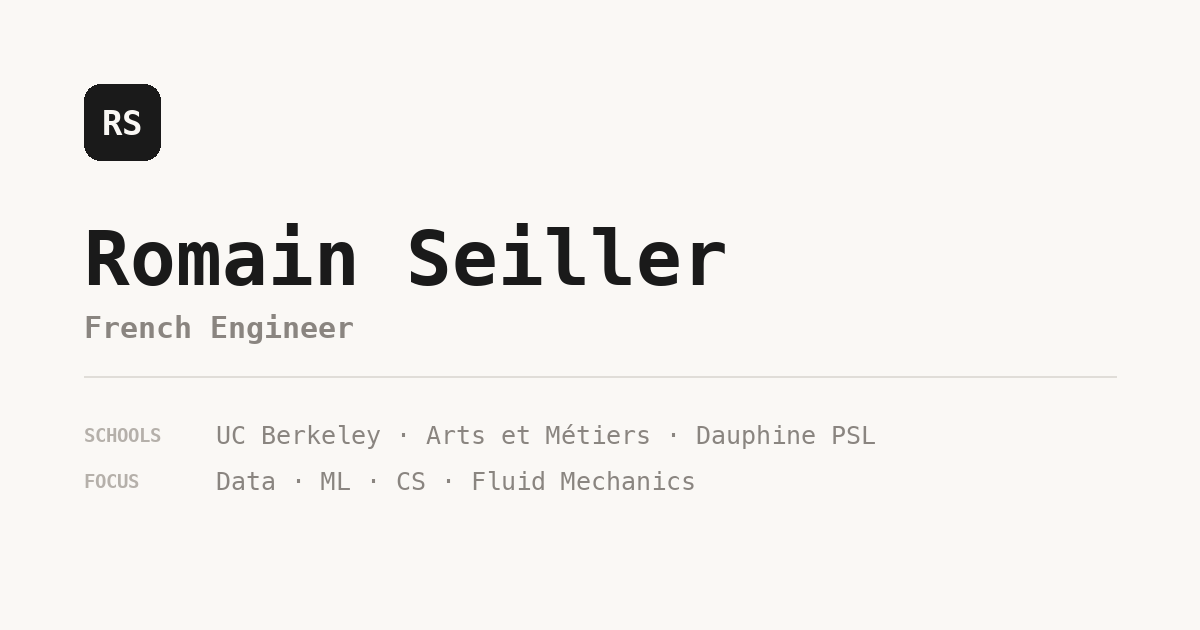
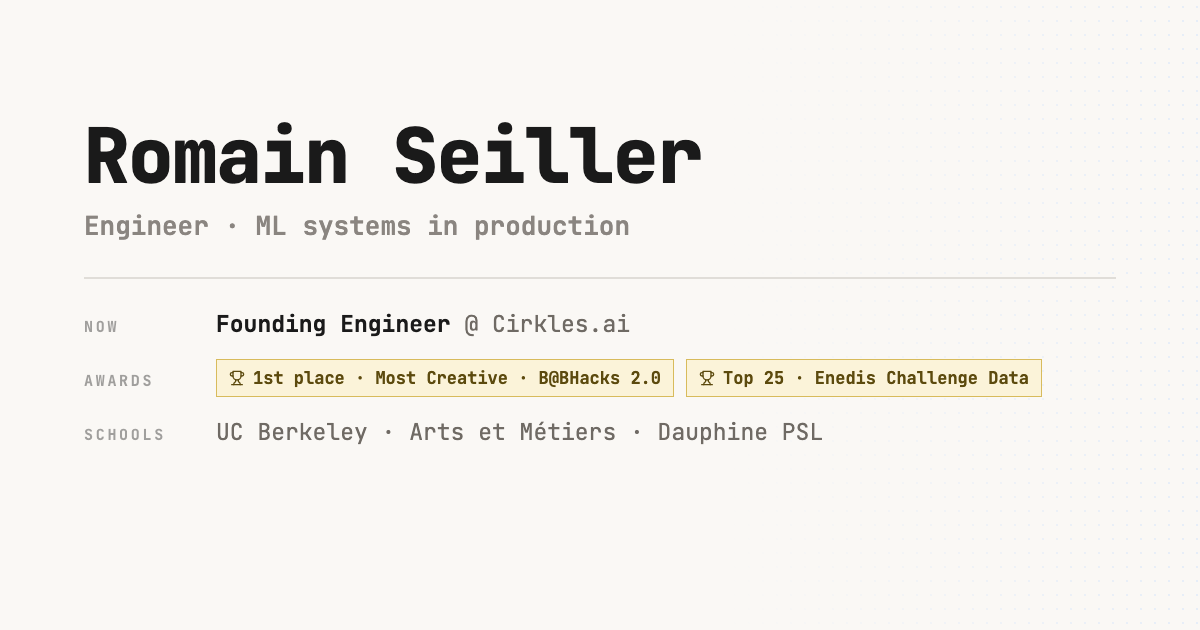
Give every page its own share image

diff --git a/projects/enedis-data-challenge/index.html b/projects/enedis-data-challenge/index.html
@@ -12,14 +12,14 @@
     <meta property="og:title" content="Enedis — Challenge Data (ENS) — Romain Seiller" />
     <meta property="og:description" content="Enedis — Challenge Data (ENS). Industrial load-curve imputation, public leaderboard." />
     <meta property="og:url" content="https://rsllr150.github.io/projects/enedis-data-challenge/" />
-    <meta property="og:image" content="https://rsllr150.github.io/og.png" />
+    <meta property="og:image" content="https://rsllr150.github.io/og/enedis-data-challenge.png" />
     <meta property="og:image:width" content="1200" />
     <meta property="og:image:height" content="630" />
-    <meta property="og:image:alt" content="Romain Seiller — French Engineer. UC Berkeley, Arts et Metiers, Dauphine PSL." />
+    <meta property="og:image:alt" content="Enedis — Challenge Data (ENS) — Romain Seiller — project poster" />
     <meta name="twitter:card" content="summary_large_image" />
     <meta name="twitter:title" content="Enedis — Challenge Data (ENS) — Romain Seiller" />
     <meta name="twitter:description" content="Enedis — Challenge Data (ENS). Industrial load-curve imputation, public leaderboard." />
-    <meta name="twitter:image" content="https://rsllr150.github.io/og.png" />
+    <meta name="twitter:image" content="https://rsllr150.github.io/og/enedis-data-challenge.png" />
   </head>
   <body>
     <div id="root"></div>

diff --git a/projects/high-order-acoustics/index.html b/projects/high-order-acoustics/index.html
@@ -12,14 +12,14 @@
     <meta property="og:title" content="High-Order Acoustic Solver — Romain Seiller" />
     <meta property="og:description" content="7th-order linearized Euler solver for acoustic propagation in heterogeneous media." />
     <meta property="og:url" content="https://rsllr150.github.io/projects/high-order-acoustics/" />
-    <meta property="og:image" content="https://rsllr150.github.io/og.png" />
+    <meta property="og:image" content="https://rsllr150.github.io/og/high-order-acoustics.png" />
     <meta property="og:image:width" content="1200" />
     <meta property="og:image:height" content="630" />
-    <meta property="og:image:alt" content="Romain Seiller — French Engineer. UC Berkeley, Arts et Metiers, Dauphine PSL." />
+    <meta property="og:image:alt" content="High-Order Acoustic Solver — Romain Seiller — project poster" />
     <meta name="twitter:card" content="summary_large_image" />
     <meta name="twitter:title" content="High-Order Acoustic Solver — Romain Seiller" />
     <meta name="twitter:description" content="7th-order linearized Euler solver for acoustic propagation in heterogeneous media." />
-    <meta name="twitter:image" content="https://rsllr150.github.io/og.png" />
+    <meta name="twitter:image" content="https://rsllr150.github.io/og/high-order-acoustics.png" />
   </head>
   <body>
     <div id="root"></div>

diff --git a/projects/botbot/index.html b/projects/botbot/index.html
@@ -12,14 +12,14 @@
     <meta property="og:title" content="BotBot — Romain Seiller" />
     <meta property="og:description" content="BotBot — a fault-tolerant browser-worker fleet: hundreds of isolated sessions inside a window that lasts minutes." />
     <meta property="og:url" content="https://rsllr150.github.io/projects/botbot/" />
-    <meta property="og:image" content="https://rsllr150.github.io/og.png" />
+    <meta property="og:image" content="https://rsllr150.github.io/og/botbot.png" />
     <meta property="og:image:width" content="1200" />
     <meta property="og:image:height" content="630" />
-    <meta property="og:image:alt" content="Romain Seiller — French Engineer. UC Berkeley, Arts et Metiers, Dauphine PSL." />
+    <meta property="og:image:alt" content="BotBot — Romain Seiller — project poster" />
     <meta name="twitter:card" content="summary_large_image" />
     <meta name="twitter:title" content="BotBot — Romain Seiller" />
     <meta name="twitter:description" content="BotBot — a fault-tolerant browser-worker fleet: hundreds of isolated sessions inside a window that lasts minutes." />
-    <meta name="twitter:image" content="https://rsllr150.github.io/og.png" />
+    <meta name="twitter:image" content="https://rsllr150.github.io/og/botbot.png" />
   </head>
   <body>
     <div id="root"></div>

diff --git a/projects/maskon/index.html b/projects/maskon/index.html
@@ -12,14 +12,14 @@
     <meta property="og:title" content="MaskON — Romain Seiller" />
     <meta property="og:description" content="MaskON — PII detection and masking API specialised in French formats." />
     <meta property="og:url" content="https://rsllr150.github.io/projects/maskon/" />
-    <meta property="og:image" content="https://rsllr150.github.io/og.png" />
+    <meta property="og:image" content="https://rsllr150.github.io/og/maskon.png" />
     <meta property="og:image:width" content="1200" />
     <meta property="og:image:height" content="630" />
-    <meta property="og:image:alt" content="Romain Seiller — French Engineer. UC Berkeley, Arts et Metiers, Dauphine PSL." />
+    <meta property="og:image:alt" content="MaskON — Romain Seiller — project poster" />
     <meta name="twitter:card" content="summary_large_image" />
     <meta name="twitter:title" content="MaskON — Romain Seiller" />
     <meta name="twitter:description" content="MaskON — PII detection and masking API specialised in French formats." />
-    <meta name="twitter:image" content="https://rsllr150.github.io/og.png" />
+    <meta name="twitter:image" content="https://rsllr150.github.io/og/maskon.png" />
   </head>
   <body>
     <div id="root"></div>

diff --git a/experience/oddo-bhf/index.html b/experience/oddo-bhf/index.html
@@ -15,7 +15,7 @@
     <meta property="og:image" content="https://rsllr150.github.io/og.png" />
     <meta property="og:image:width" content="1200" />
     <meta property="og:image:height" content="630" />
-    <meta property="og:image:alt" content="Romain Seiller — French Engineer. UC Berkeley, Arts et Metiers, Dauphine PSL." />
+    <meta property="og:image:alt" content="Romain Seiller — Engineer, ML systems in production. UC Berkeley, Arts et Métiers, Dauphine PSL." />
     <meta name="twitter:card" content="summary_large_image" />
     <meta name="twitter:title" content="ODDO BHF — Romain Seiller" />
     <meta name="twitter:description" content="Data &amp; Execution Analyst @ ODDO BHF — Romain Seiller." />

diff --git a/experience/cm-cic/index.html b/experience/cm-cic/index.html
@@ -15,7 +15,7 @@
     <meta property="og:image" content="https://rsllr150.github.io/og.png" />
     <meta property="og:image:width" content="1200" />
     <meta property="og:image:height" content="630" />
-    <meta property="og:image:alt" content="Romain Seiller — French Engineer. UC Berkeley, Arts et Metiers, Dauphine PSL." />
+    <meta property="og:image:alt" content="Romain Seiller — Engineer, ML systems in production. UC Berkeley, Arts et Métiers, Dauphine PSL." />
     <meta name="twitter:card" content="summary_large_image" />
     <meta name="twitter:title" content="CM-CIC — Romain Seiller" />
     <meta name="twitter:description" content="Junior Data Scientist, Buy-Side @ CM-CIC — Romain Seiller." />

diff --git a/experience/cirkles/index.html b/experience/cirkles/index.html
@@ -15,7 +15,7 @@
     <meta property="og:image" content="https://rsllr150.github.io/og.png" />
     <meta property="og:image:width" content="1200" />
     <meta property="og:image:height" content="630" />
-    <meta property="og:image:alt" content="Romain Seiller — French Engineer. UC Berkeley, Arts et Metiers, Dauphine PSL." />
+    <meta property="og:image:alt" content="Romain Seiller — Engineer, ML systems in production. UC Berkeley, Arts et Métiers, Dauphine PSL." />
     <meta name="twitter:card" content="summary_large_image" />
     <meta name="twitter:title" content="Cirkles — Romain Seiller" />
     <meta name="twitter:description" content="Founding Engineer @ Cirkles — Romain Seiller." />
